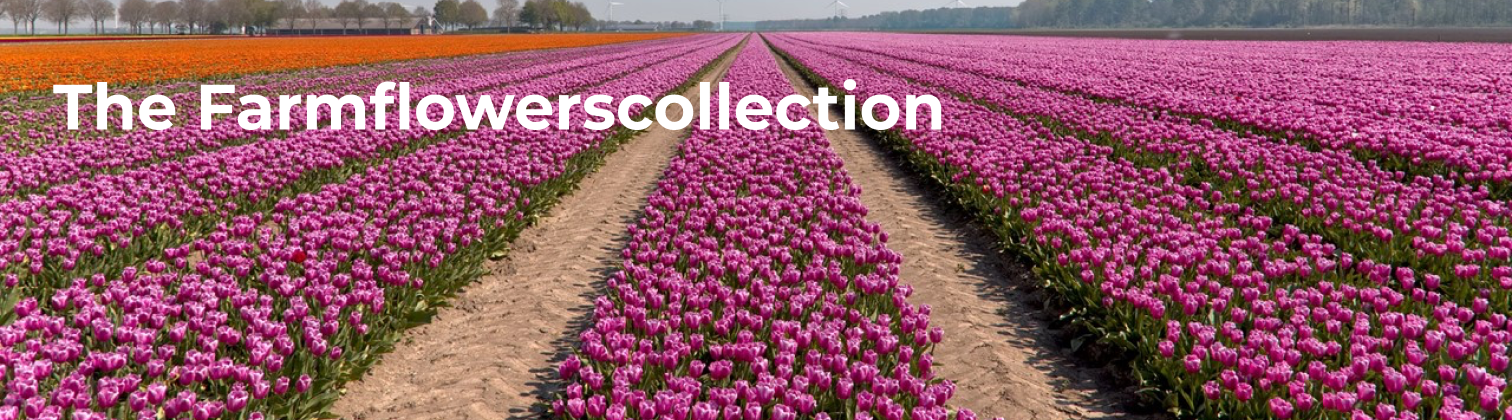
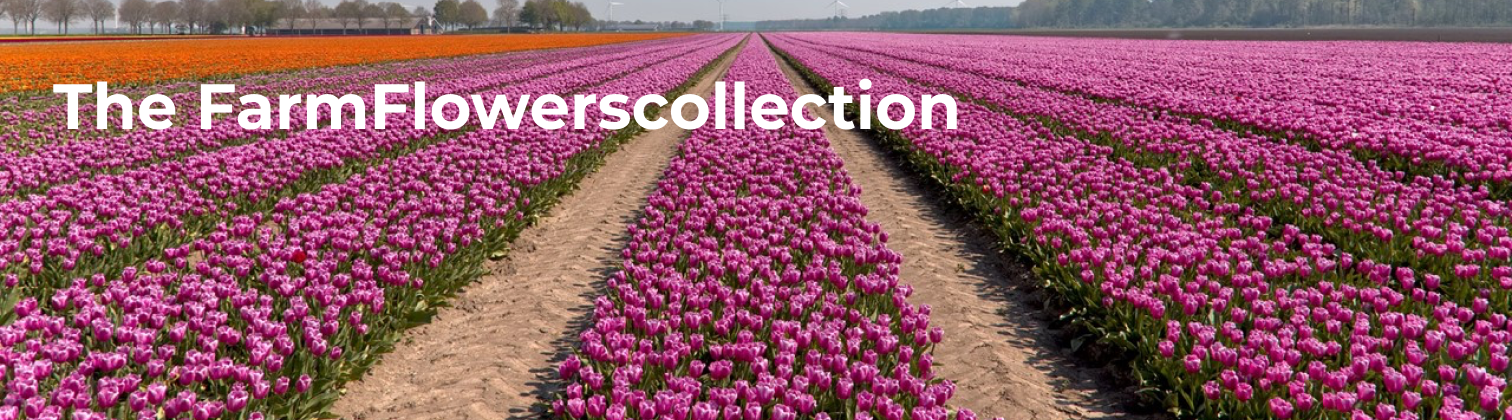
final changes

Changed region(s): [[0.1865, 0.1857, 0.6528, 0.3095], [0.0933, 0.2476, 0.1243, 0.3095], [0.1554, 0.2786, 0.1865, 0.3095]]

diff --git a/src/pages/Home/Home.jsx b/src/pages/Home/Home.jsx
@@ -10,13 +10,13 @@ const Home = () => {
             </div>
             <div className='introtext'>
                 <h2>
-                Welkom bij The Farmflowerscollection
+                Welkom bij The FarmFlowers Collection
                 </h2>
                 <p>Welkom op de site van "The FarmFlowers Collection", hier vind u de door de jaren heen verzamelde autocollectie. In verband met andere activiteiten hebben we besloten de collectie auto's wat terug te brengen. 
                     Neem een kijkje door onze unieke collectie.</p>
                 <h3>Huidige collectie</h3>
                 <p>Onze bedrijfsactiviteiten zijn vanaf de beginjaren na de tweede wereldoorlog, tot heden ten dagen, het telen van bloembollen geweest.In de zeventiger jaren zijn wij begonnen met het verzamelen van klassieke auto's, deze verzameling is flink gegroeid, na onze eerste auto, een Ford Capri, kwam al snel de liefde voor de “Amerikanen”, desondanks hebben wij hiernaast ook merken als Porsche, Lancia en MG.</p>
-            <button className='showroomButton'><Link to="/Showroom">Showroom</Link></button>
+            <button className='showroomButton'><Link to="/Showroom">Collectie</Link></button>
             <button className='showroomButton'><Link to="/Contact">Contact</Link></button>
             </div>
         </main>

diff --git a/src/components/Footer/Footer.jsx b/src/components/Footer/Footer.jsx
@@ -8,7 +8,7 @@ import { faEnvelope, faPhone, faHome } from '@fortawesome/free-solid-svg-icons'
 
 const Footer = () => {
   const mailLink = () => {
-    const email = 'mennovlaming@gmail.com';
+    const email = 'farmflowers@live.nl';
     const mailtoLink = `mailto:${email}`;
    
     window.open(mailtoLink, '_blank');
@@ -17,10 +17,10 @@ const Footer = () => {
     <div className='footer'>
       <div className='info'>
         <div className='telefoon'>
-          <p><FontAwesomeIcon icon={faPhone} /> 0612345679</p>
-          <p><FontAwesomeIcon icon={faHome} /> Middenvliet 45</p>
+          <p><FontAwesomeIcon icon={faPhone} /> 0620422388</p>
+          <p><FontAwesomeIcon icon={faHome} /> Middenvliet 19</p>
         </div>
-        <a onClick={mailLink}><FontAwesomeIcon icon={faEnvelope} /> email@email.com</a>
+        <a onClick={mailLink}><FontAwesomeIcon icon={faEnvelope} /> farmflowers@live.nl</a>
         </div>
     </div>
   )

diff --git a/src/pages/Showroom/Showroom.jsx b/src/pages/Showroom/Showroom.jsx
@@ -8,8 +8,8 @@ const Showroom = () => {
   return (
     <section>
       <div className='Showroom-info'>
-        <h1>Showroom</h1>
-        <p>Lorem ipsum dolor sit amet, consectetur adipiscing elit, sed do eiusmod tempor incididunt ut labore et dolore magna aliqua. </p>
+        <h1>Collectie</h1>
+        <p>Zie hier de huidige collectie, u bent welkom om deze in het echt te zien, uitsluitend op afspraak.</p>
       </div>
 
       <div className='Gallery'>

diff --git a/index.html b/index.html
@@ -7,7 +7,7 @@
 <link rel="preconnect" href="https://fonts.gstatic.com" crossorigin>
 <link href="https://fonts.googleapis.com/css2?family=Montserrat:ital,wght@0,100..900;1,100..900&family=Oswald:wght@200..700&display=swap" rel="stylesheet">
     <meta name="viewport" content="width=device-width, initial-scale=1.0" />
-    <title>Farmflowerscollection</title>
+    <title>FarmFlowerscollection</title>
   </head>
   <body>
     <div id="root"></div>

diff --git a/src/components/Navbar/Navbar.jsx b/src/components/Navbar/Navbar.jsx
@@ -25,7 +25,7 @@ const Navbar = () => {
       </div>
       <div className={`navbar-links ${isMenuOpen ? 'open' : ''}`}>
         <Link to="/" onClick={closeMenu}>Home</Link>
-        <Link to="/Showroom" onClick={closeMenu}>Showroom</Link>
+        <Link to="/Showroom" onClick={closeMenu}>Collectie</Link>
         <Link to="/Contact" onClick={closeMenu}>Contact</Link>
         <Link to="/Over" onClick={closeMenu}>Over</Link>
       </div>

diff --git a/src/components/Navbar/Navbar.css b/src/components/Navbar/Navbar.css
@@ -12,6 +12,7 @@
   .navbar-hamburger {
     font-size: 1.5rem;
     cursor: pointer;
+
   }
   
   .navbar-links {
@@ -40,7 +41,7 @@
       top: 50px;
       left: 0;
       width: 100%;
-      background-color: black;
+      background-color: white;
     }
   
     .navbar-links.open {
@@ -52,6 +53,7 @@
       display: block;
       font-size: 40px;
       margin: -25px -10px -10px 0;
+      color: black;
     }
   }
   

diff --git a/src/pages/Over/Over.jsx b/src/pages/Over/Over.jsx
@@ -9,7 +9,7 @@ const Over = () => {
         </div>
         <div className='introtext'>
             <h2>
-            The Farmflowerscollection
+            The FarmFlowers Collection
             </h2>
             <p>Welkom op de site van "The FarmFlowers Collection"
 Onze bedrijfsactiviteiten zijn vanaf de beginjaren na de tweede wereldoorlog, tot heden ten dagen, het telen van bloembollen geweest.&nbsp;&nbsp;  <br />

diff --git a/src/pages/Contact/Contact.jsx b/src/pages/Contact/Contact.jsx
@@ -5,7 +5,7 @@ import { faEnvelope, faPhone, faHome } from '@fortawesome/free-solid-svg-icons'
 const Contact = () => {
 
     const mailLink = () => {
-        const email = 'mennovlaming@gmail.com';
+        const email = 'farmflowers@live.nl';
         const mailtoLink = `mailto:${email}`;
        
         window.open(mailtoLink, '_blank');

diff --git a/src/pages/Home/Home.css b/src/pages/Home/Home.css
@@ -5,13 +5,13 @@
 }
 
 .showroomButton {
-    width: 180px;
+    width: 160px;
     height: 40px;
     background-color: var(--blue);
     border: none;
     border-radius: 12px;
     box-shadow: 2px 2px 5px rgba(130, 130, 130, 0.6);
-    font-size: 22px;
+    font-size: 20px;
     font-family: "Oswald", sans-serif;
     cursor: pointer;
 }

diff --git a/src/components/MailButton/MailButton.jsx b/src/components/MailButton/MailButton.jsx
@@ -4,7 +4,7 @@ import './MailButton.css'
 const MailButton = () => {
   const handleButtonClick = () => {
     // Specifieer het e-mailadres en eventuele andere parameters
-    const email = 'mennovlaming@gmail.com';
+    const email = 'farmflowers@live.nl';
 
 
     // Creëer de mailto-link
